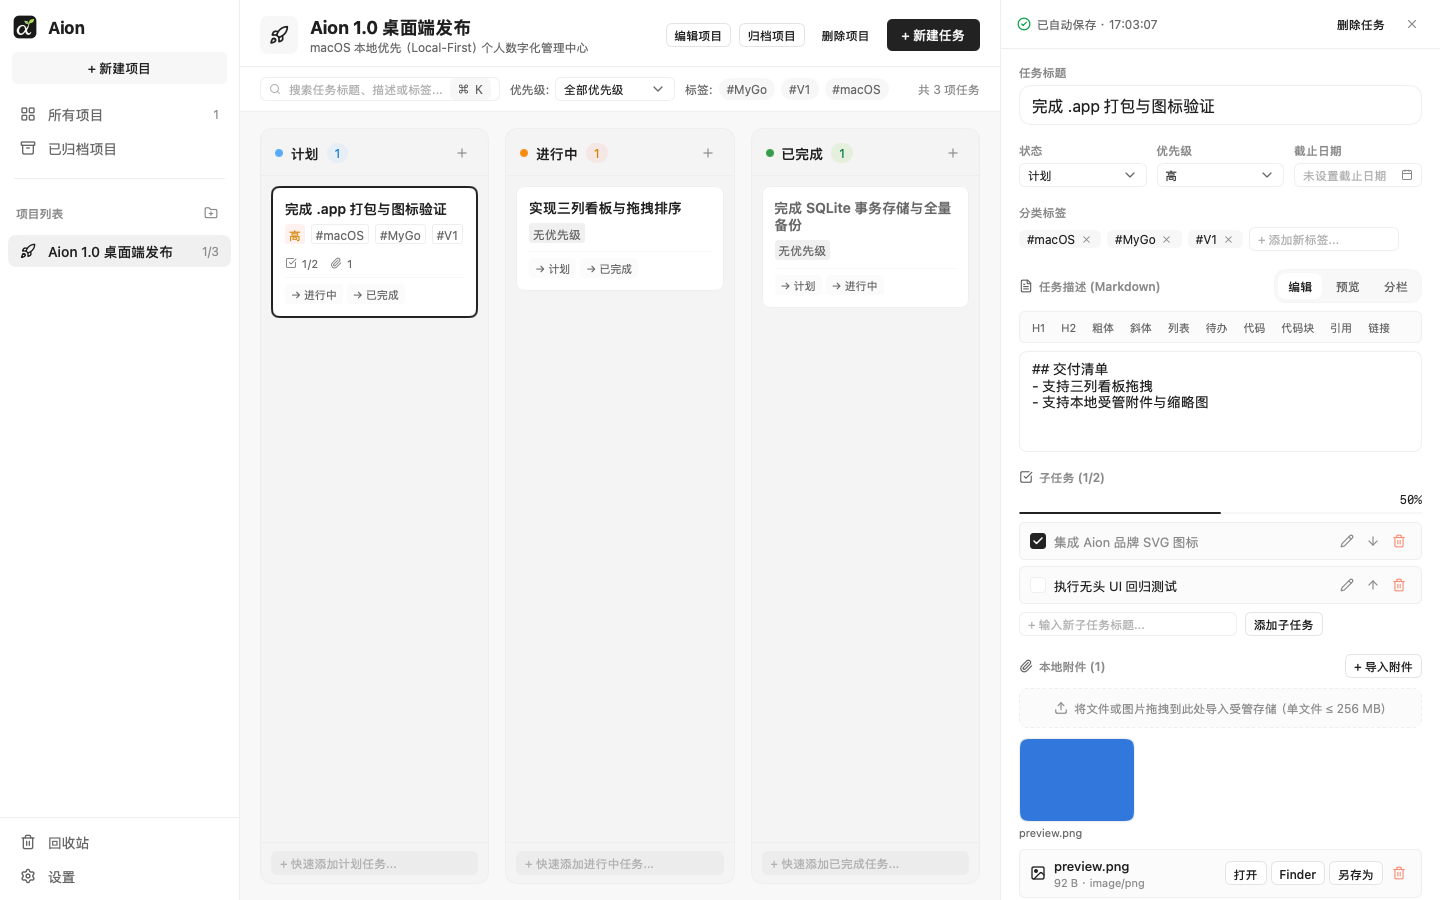
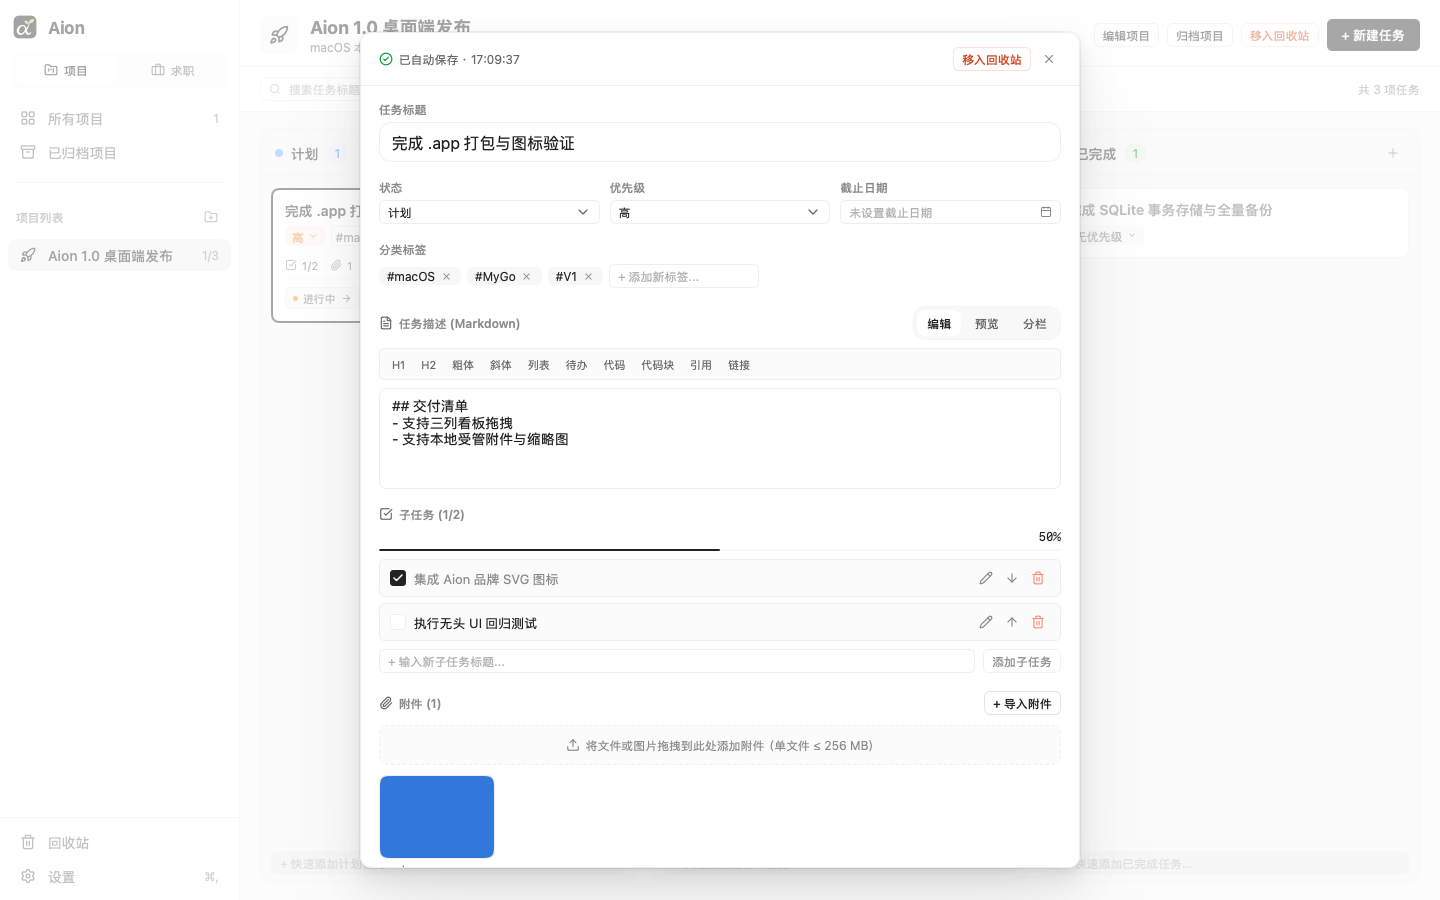
chore(release): prepare v0.1.6

diff --git a/CHANGELOG.md b/CHANGELOG.md
@@ -1,5 +1,14 @@
 # Changelog
 
+## 0.1.6
+
+存储升级、并发响应与稳定性优化：
+
+- **存储升级至 Schema v3（破坏性变更）**：移除求职投递的跟进日期字段（首次启动新版自动迁移本地数据库至 Schema v3，保留其余投递字段与时间线）；完整恢复仅接受 Schema v3 备份包，不再兼容恢复 Schema v1/v2 旧备份（建议升级后重新导出备份）。
+- **异步写入与草稿保护**：看板移动/排序、创建记录、回收站恢复与设置保存改为后台执行，等待数据库期间仍可流畅输入与切换页面；增强任务与投递详情的串行保存、连续输入合并及放弃修改/失败恢复逻辑（保留后续编辑、子任务相对顺序与备注换行）。
+- **求职视图与界面打磨**：补录历史阶段同步刷新「最近更新」排序并在时间线按发生日期展示；为无投递、空分类与筛选无结果提供差异化空状态引导与一键清除筛选；设置页主题切换分段控件新增图标、优化数据目录卡片间距，并修复输入框聚焦后占位符未立即隐藏的问题。
+- **附件、备份与回收站稳定性**：附件导入（暂存区）与另存为导出改为在数据锁外完成复制与校验；修复已结束 Offer 修正阶段后的恢复及系统时钟回拨时的安全备份轮转，并在恢复失败时清晰展示安全备份路径；清空回收站改为跨模块单事务提交并区分条目缺失与状态冲突。
+
 ## 0.1.5
 
 功能新增、架构重构与问题修复：
